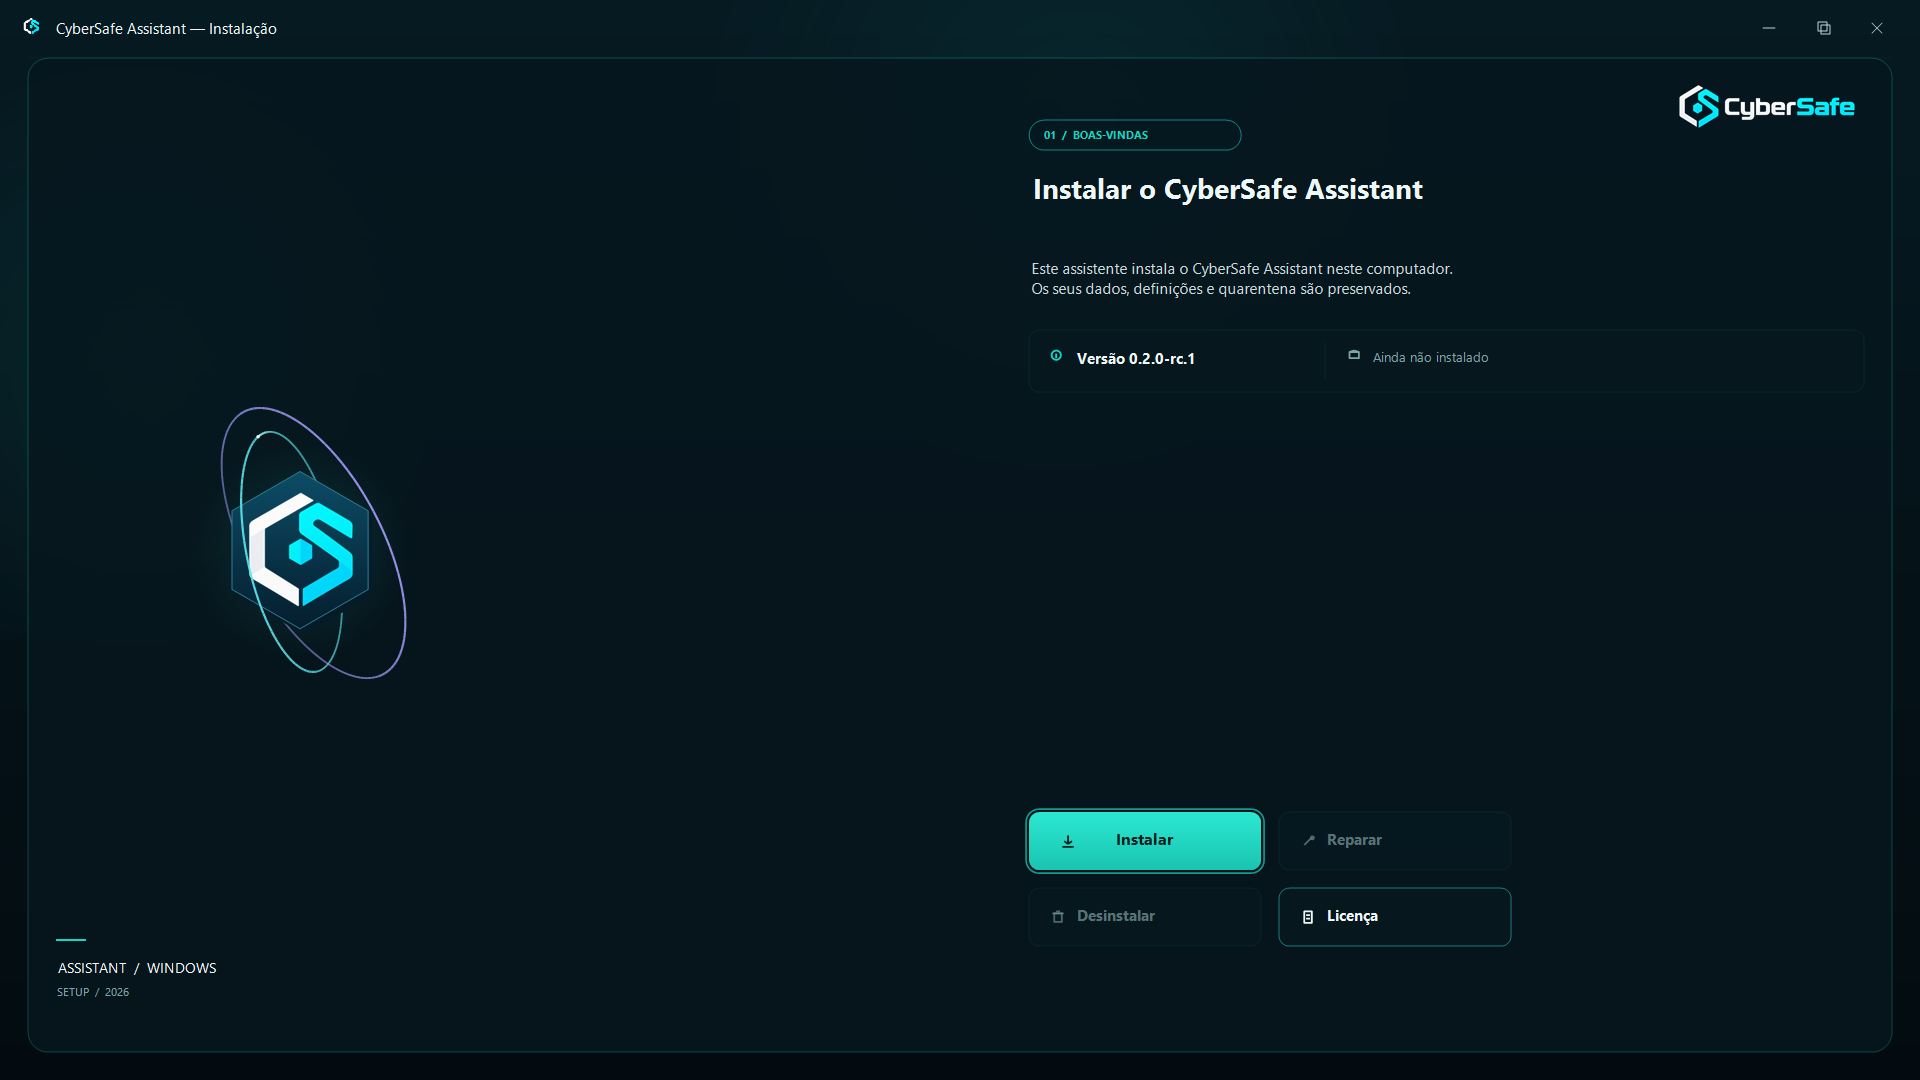
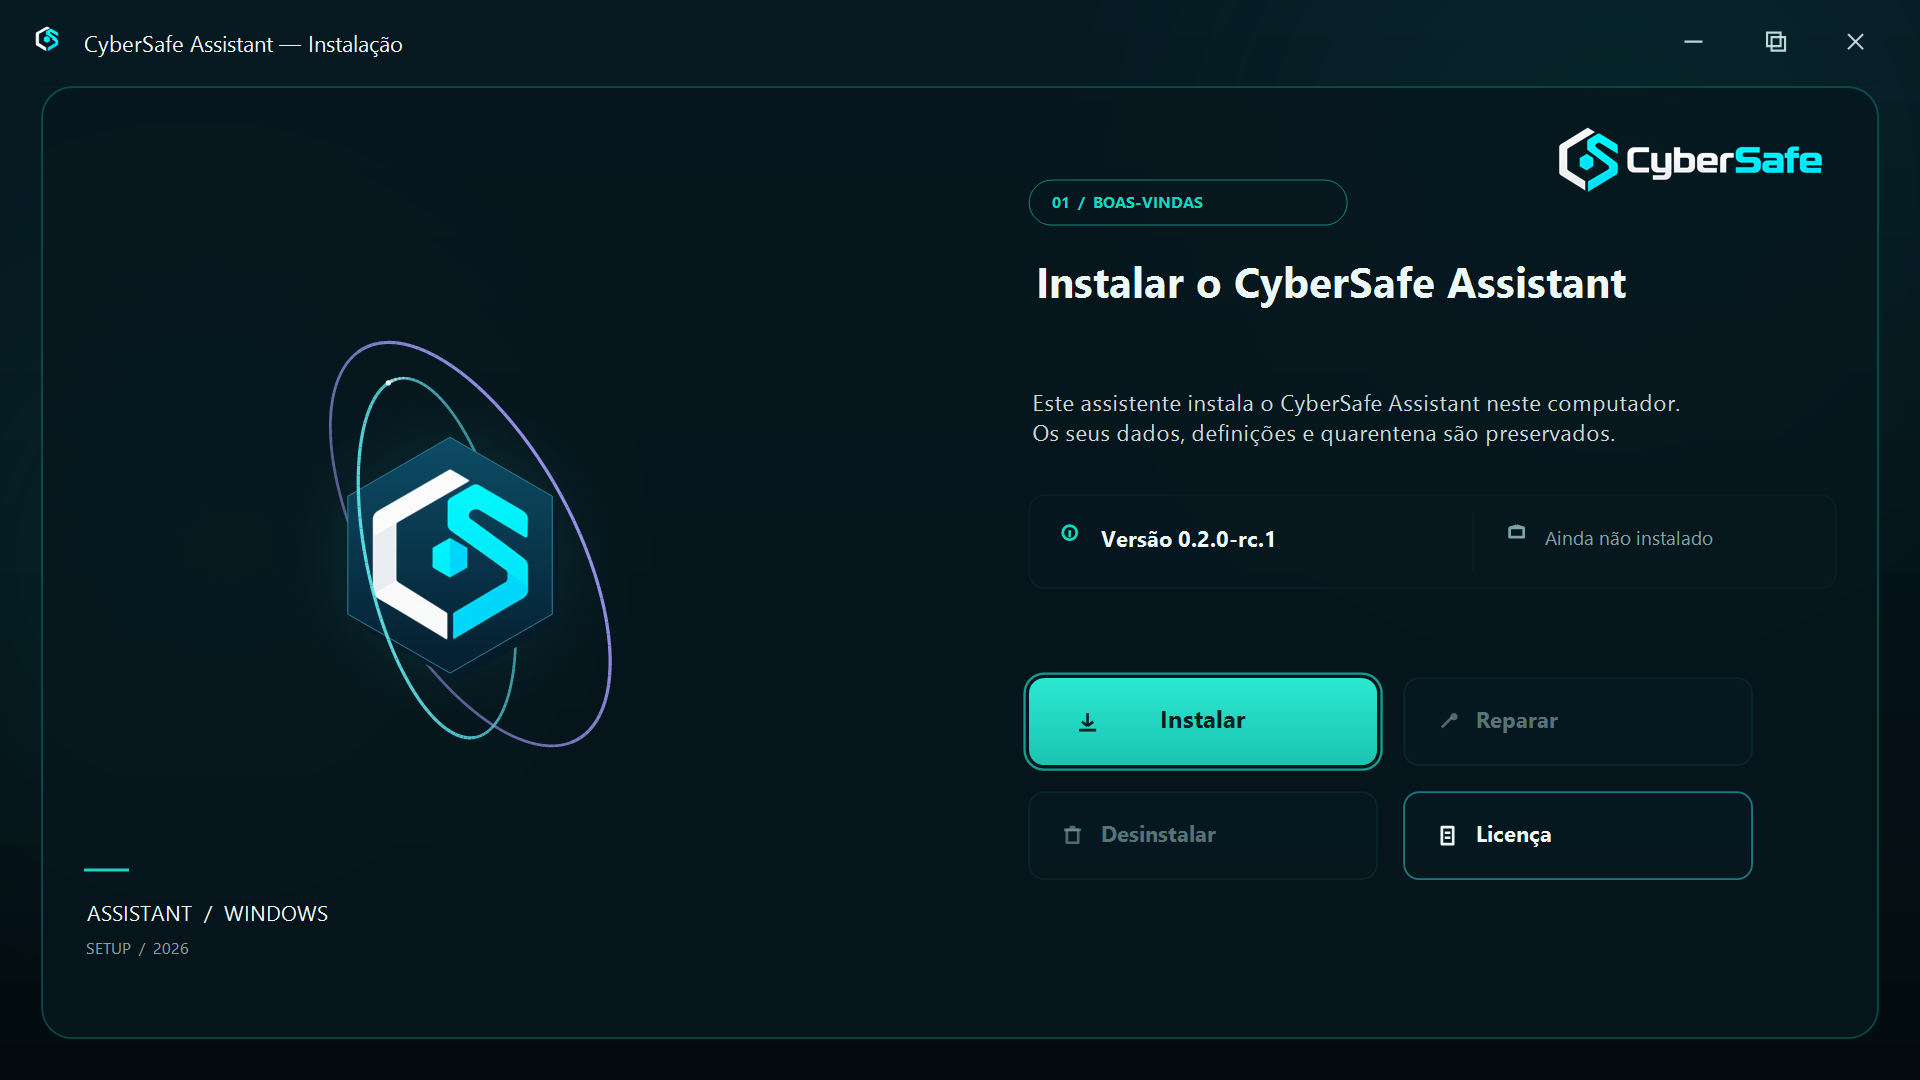
fix(setup): scale the interface with the window instead of pinning it left
Em maximize o conteudo ficava colado a esquerda com um vazio enorme. A unidade
de layout passa a ser o menor de W/1120 e H/720, aplicada por S(), pelo que
tipografia, controlos e cena crescem em conjunto sem sair do desenho base.

🤖 Generated with Codebuff

diff --git a/scripts/setup-ui/main.cpp b/scripts/setup-ui/main.cpp
@@ -39,7 +39,8 @@ static int g_winHover = -1, g_winPress = -1;
 static RECT g_winBtn[3];
 static HICON g_appIcon = nullptr;
 
-static float S(float v){ return v * g_dpi / 96.0f; }
+static float g_ui = 1.0f;
+static float S(float v){ return v * g_dpi / 96.0f * g_ui; }
 
 static bool FileExistsW(const std::wstring& p){
   DWORD a = GetFileAttributesW(p.c_str());
@@ -298,6 +299,9 @@ static void Layout(HWND hwnd){
   RECT rc; GetClientRect(hwnd, &rc);
   g_buttons.clear();
   float W = (float)rc.right, H = (float)rc.bottom;
+  g_ui = fminf(W / 1120.0f, H / 720.0f);
+  if(g_ui < 1.0f) g_ui = 1.0f;
+  if(g_ui > 1.9f) g_ui = 1.9f;
   float bx = W * 0.536f, bw = S(232), bh = S(58), gap = S(18), by = H - S(268);
   float wbw = S(46), wbh = S(34), wgap = S(8);
   float wx = W - S(20) - wbw * 3 - wgap * 2;
